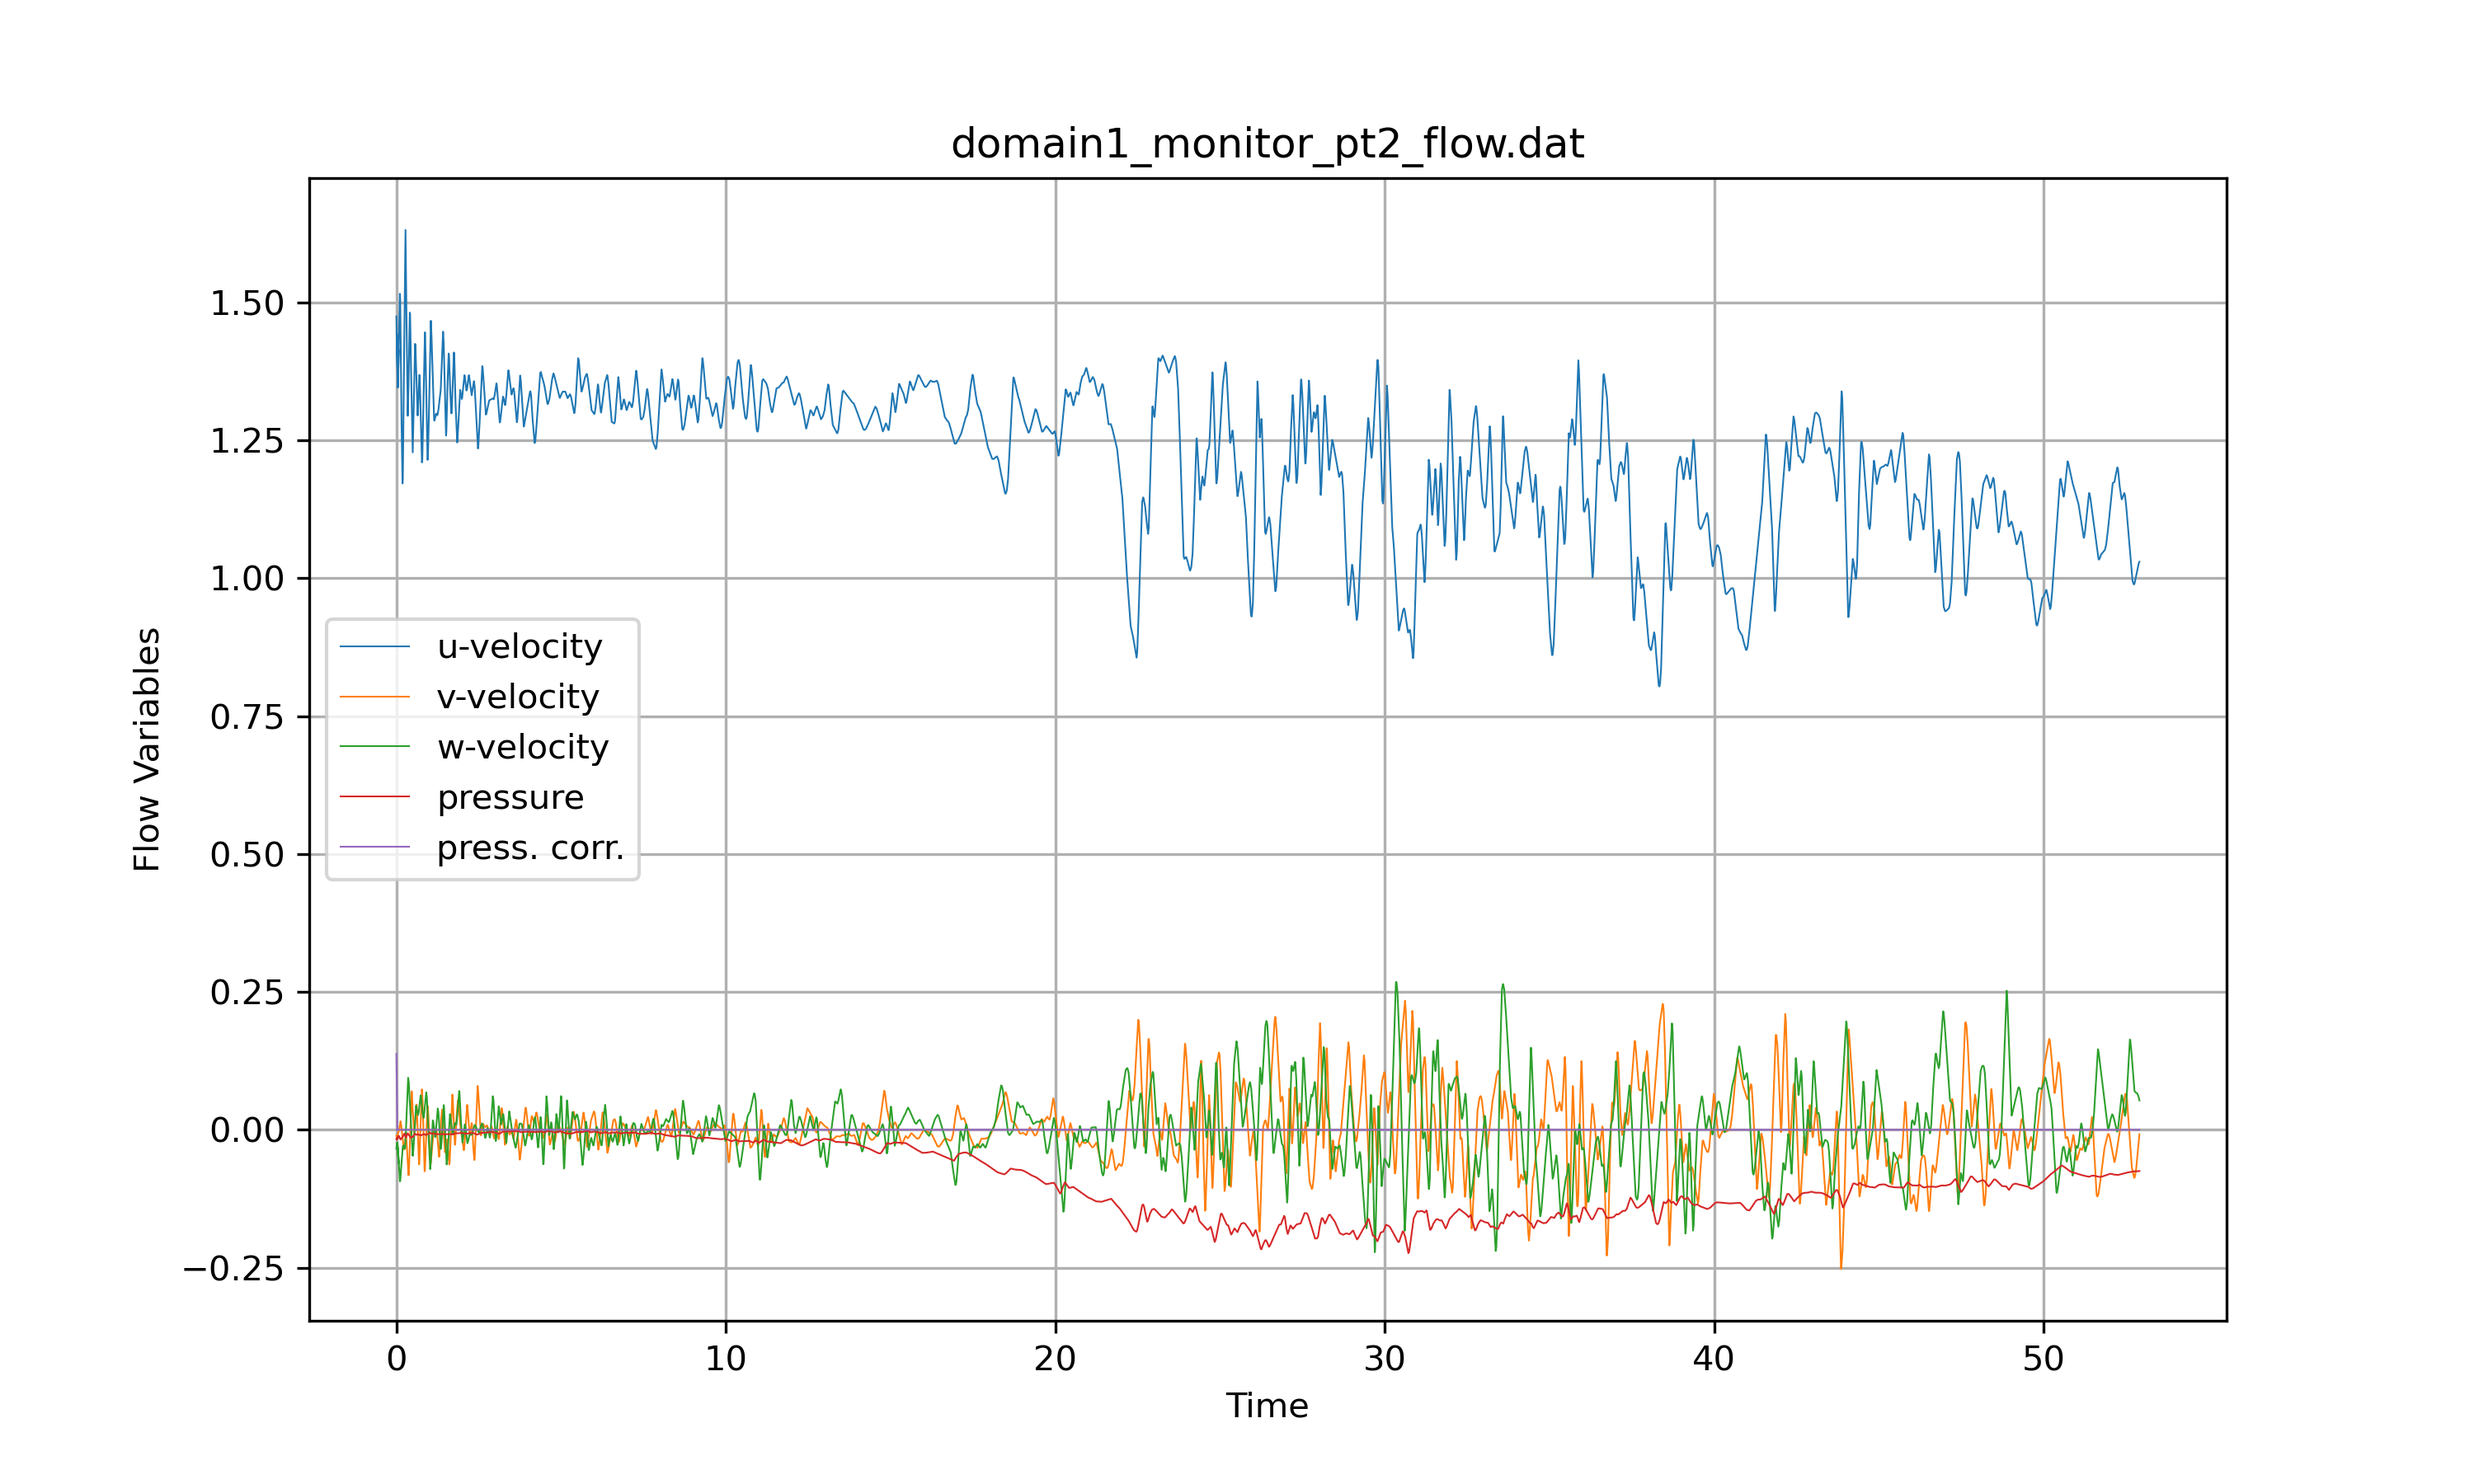
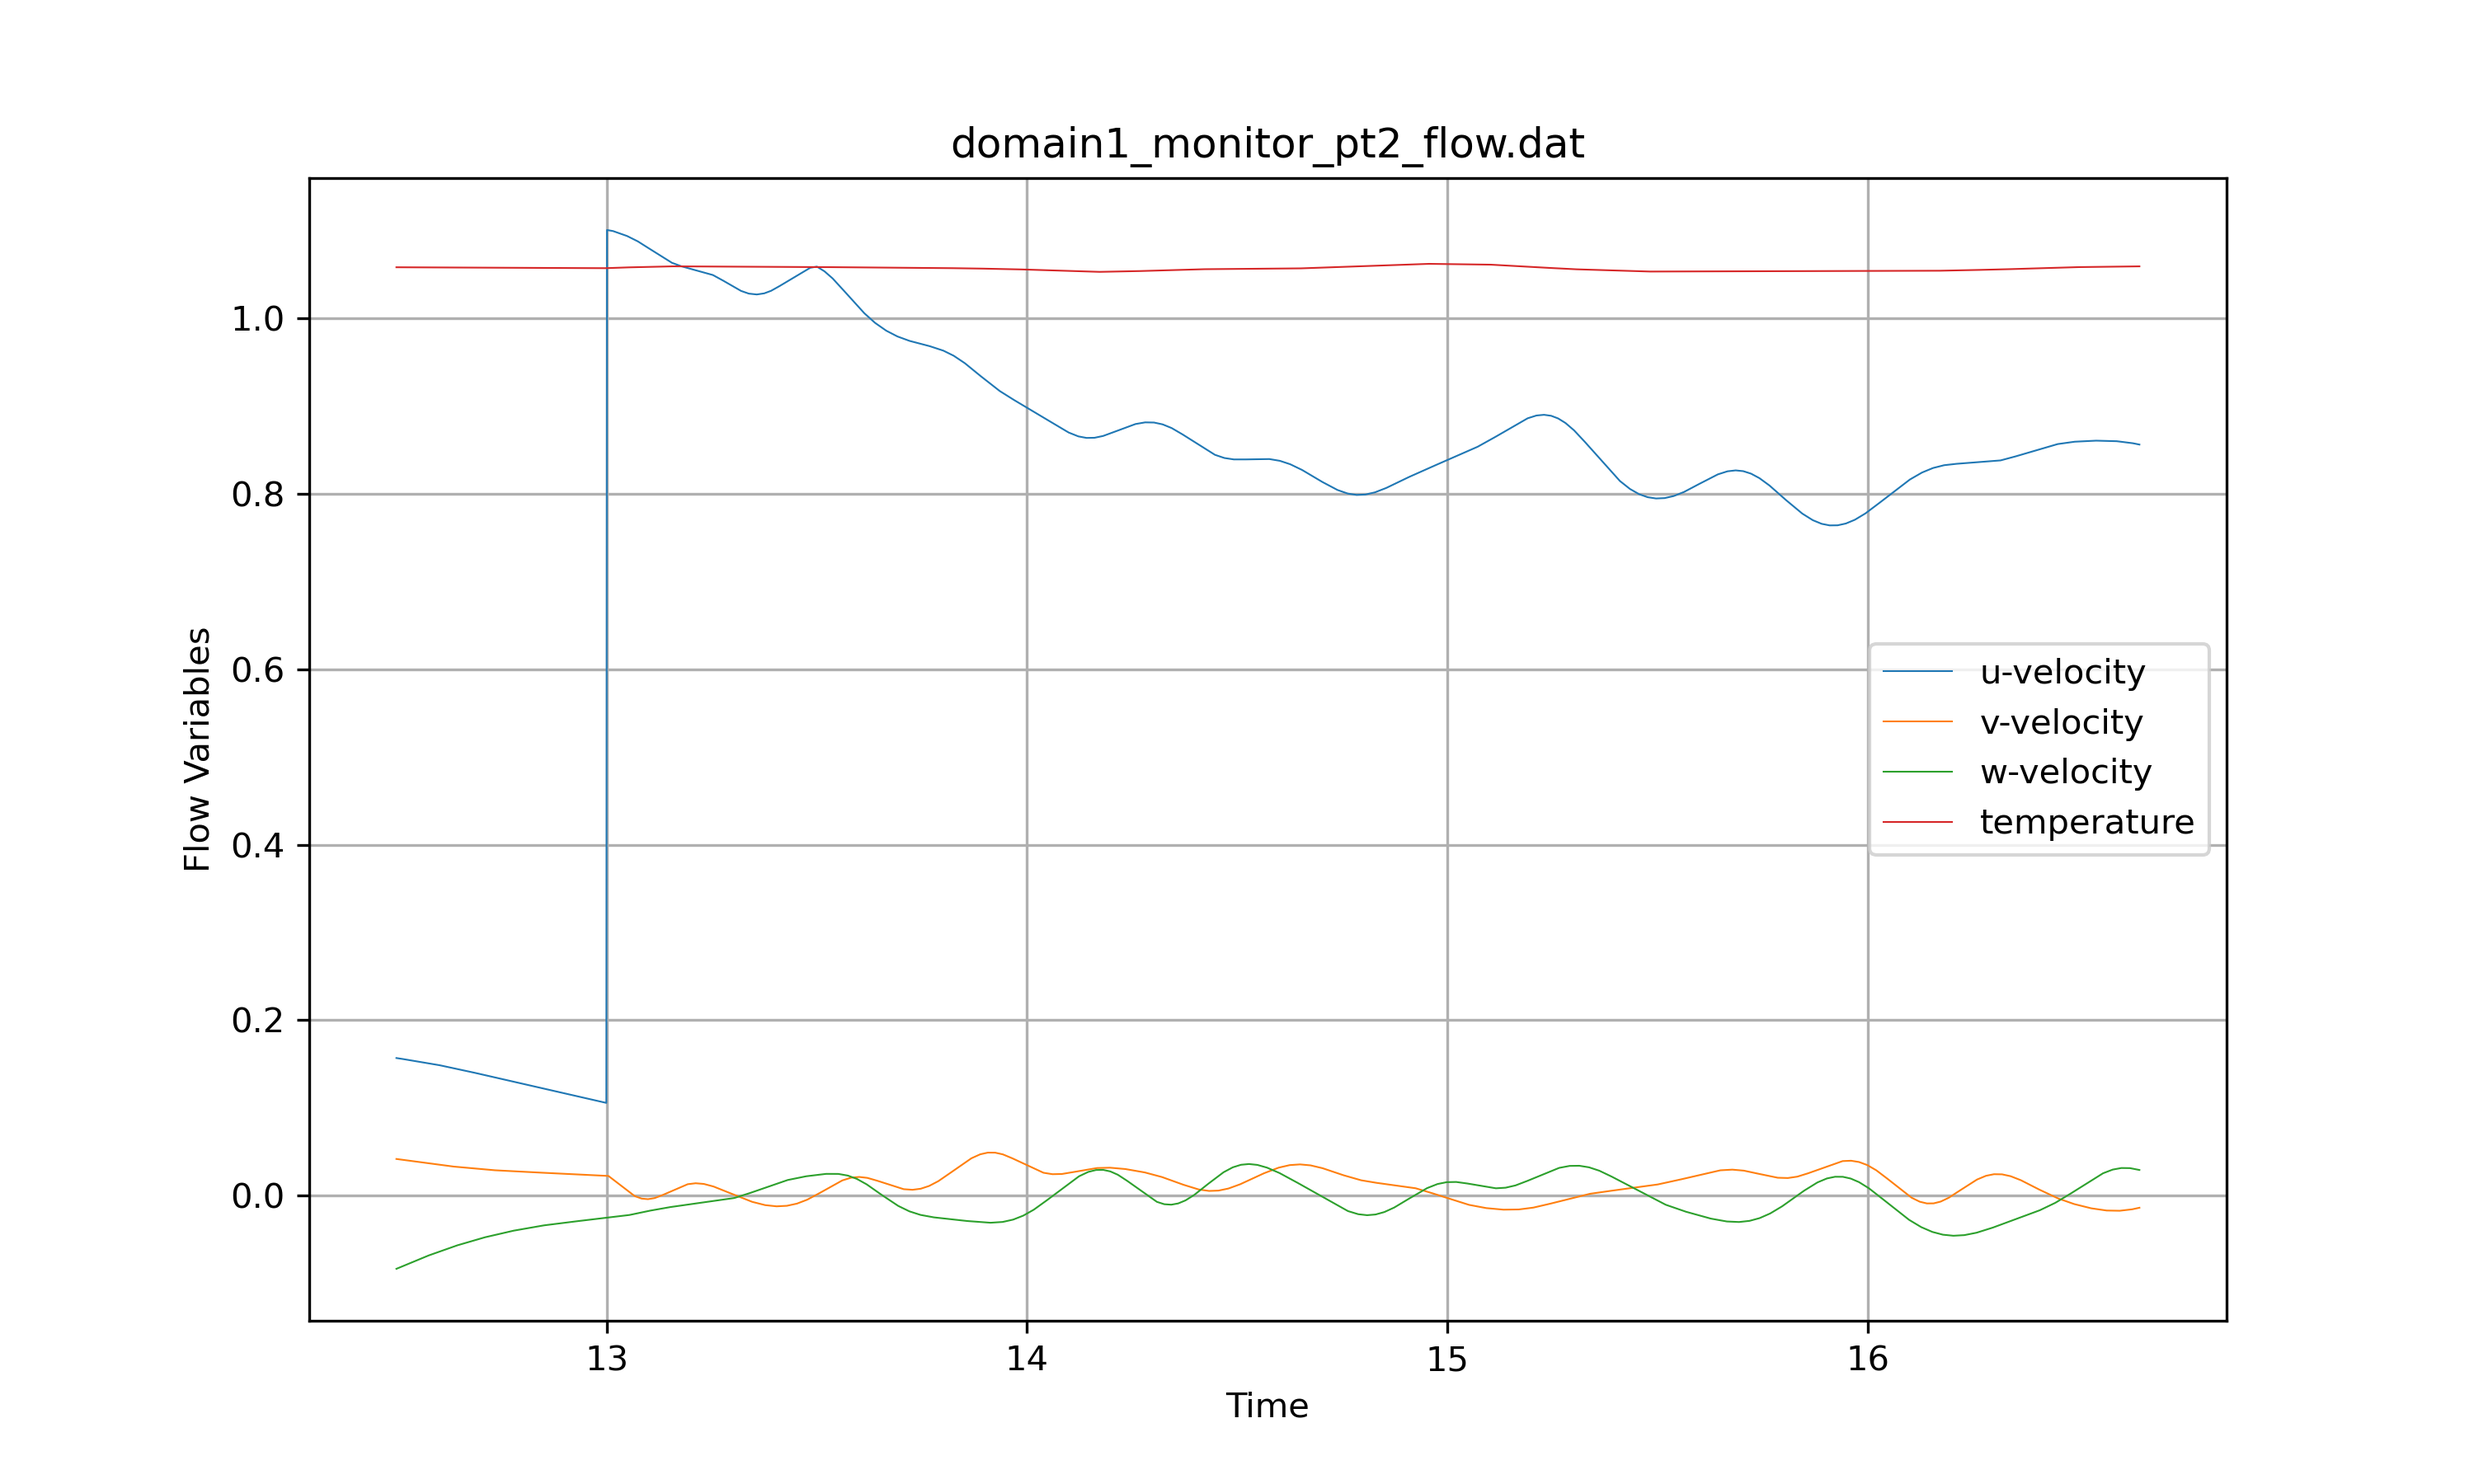
Updated README, added setup file, conda env config and requirements.txt

diff --git a/setup.py b/setup.py
@@ -1,0 +1,56 @@
+"""Setup script for CHAPSim2 Python Toolkit."""
+
+from setuptools import setup, find_packages
+
+# Read the README file for long description
+with open("README.md", "r", encoding="utf-8") as fh:
+    long_description = fh.read()
+
+setup(
+    name="chapsim2-toolkit",
+    version="0.1.0",
+    author="Alex",
+    description="A Python post-processing toolkit for CHAPSim2 DNS solver",
+    long_description=long_description,
+    long_description_content_type="text/markdown",
+    url="https://github.com/yourusername/CHAPSim2_python_toolkit",  # Update with your repo URL
+    packages=find_packages(),
+    classifiers=[
+        "Development Status :: 3 - Alpha",
+        "Intended Audience :: Science/Research",
+        "Topic :: Scientific/Engineering :: Physics",
+        "Topic :: Scientific/Engineering :: Visualization",
+        "License :: OSI Approved :: MIT License",
+        "Programming Language :: Python :: 3",
+        "Programming Language :: Python :: 3.8",
+        "Programming Language :: Python :: 3.9",
+        "Programming Language :: Python :: 3.10",
+        "Programming Language :: Python :: 3.11",
+    ],
+    python_requires=">=3.8",
+    install_requires=[
+        "numpy>=1.20.0",
+        "matplotlib>=3.3.0",
+        "pandas>=1.2.0",
+        "vtk>=9.0.0",
+        "pyvista>=0.32.0",
+    ],
+    extras_require={
+        "dev": [
+            "pytest>=6.0",
+            "pytest-cov>=2.0",
+            "black>=21.0",
+            "flake8>=3.9",
+        ],
+    },
+    entry_points={
+        "console_scripts": [
+            "chapsim2-turbstats=turb_stats:main",
+        ],
+    },
+    include_package_data=True,
+    package_data={
+        "": ["Reference_Data/**/*"],
+    },
+    zip_safe=False,
+)

diff --git a/monitor_points.py b/monitor_points.py
@@ -12,7 +12,7 @@ plt.rcParams['path.simplify_threshold'] = 1.0
 #path = '/home/alex/sim_results/mhd_heated_channel_validation/Ha_16/3_monitor/'
 #path = '/home/alex/sim_results/mesh_con_Ha_30/30_pts/3_monitor/3_monitor/'
 #path = '/home/alex/sim_results/mhd_channel_validation/CPG/Ha_4/3_monitor/'
-path = '/home/alex/sim_results/elev_modes/isothermal_base_cases/3_monitor/'
+path = '/home/alex/sim_results/elev_modes/spat_dev_mgc/buoy_opp/3_monitor/'
 pt_files = ['domain1_monitor_pt1_flow.dat','domain1_monitor_pt3_flow.dat','domain1_monitor_pt5_flow.dat',
          'domain1_monitor_pt2_flow.dat','domain1_monitor_pt4_flow.dat']
 blk_files = ['domain1_monitor_bulk_history.log', 'domain1_monitor_change_history.log']
@@ -23,7 +23,7 @@ save_to_path = True
 
 clean_file = False
 sample_factor = 10  # Plot every nth point to reduce data density
-thermo_on = False
+thermo_on = True
 
 # ====================================================================================================================================================
  
@@ -53,8 +53,8 @@ if plt_pts:
         plt.plot(time, u, label='u-velocity', linewidth=0.5)
         plt.plot(time, v, label='v-velocity', linewidth=0.5)
         plt.plot(time, w, label='w-velocity', linewidth=0.5)
-        plt.plot(time, p, label='pressure', linewidth=0.5)
-        plt.plot(time, phi, label='press. corr.', linewidth=0.5)
+        #plt.plot(time, p, label='pressure', linewidth=0.5)
+        #plt.plot(time, phi, label='press. corr.', linewidth=0.5)
         if thermo_on:
             plt.plot(time, T, label='temperature', linewidth=0.5)
         plt.xlabel('Time')

diff --git a/config.py b/config.py
@@ -1,3 +1,5 @@
+# Configuration file for turb_stats script ============================================================================================================
+
 # Define input cases ==================================================================================================================================
 
 # format: folder_path/case/1_data/quantity_timestep.dat
@@ -7,7 +9,7 @@ cases = ['Gr10^7'] # case names must match folder names exactly
 timesteps = ['130000']
 quantities = ['u1', 'u2', 'u3', 'uu11', 'uu12', 'uu22','uu33','pr','T'] # for time & space averaged files
 forcing = 'CMF' # 'CMF' or 'CPG'
-Re = [5000] # indexing matches 'cases' if different Re used. Use reference value for CPG.
+Re = [5000] # indexing matches 'cases' if different Re used for different cases. Use bulk reference value for CPG.
 ref_temp = [670] # Kelvin
 
 # Output ==============================================================================================================================================

diff --git a/README.md b/README.md
@@ -1,2 +1,22 @@
 # CHAPSim2_python_toolkit
 A python post-processing and toolkit program based on NumPy, Matplotlib and PyVista for DNS solver CHAPSim2.
+
+Install:
+
+Dependencies are given in requirements.txt.
+pip: Navigate to base directory and run 'pip install .'
+conda: Navigate to base directory and run 'conda env create -f environment.yml' to create a conva environment for the program then 'conda activate chapsim2-toolkit' to use the environment.
+
+Scripts:
+
+turb_stats.py: Main post-processing script to provide velocity, temperature & Reynolds stress profiles from CHAPSim2 text file output. Input parameters, cases for comparison etc. on config.py file. Plots saved in turb_stats_plots/ and to file path.
+
+monitor_points.py: Plotting for bulk and point monitors. Input at the top of the script. Plots saved under monitor_point_plots/ and file path.
+
+thermo_tools.py: Property functions for liquid lithium, functionality to output NIST format data file, convert a given Grashof number to constant wall temperature difference (channel flow), calculate Prandtl and Fourier numbers.
+
+visualise.py: 3D domain visualisation using PyVista. Under development, not currently functional.
+
+Reference Data:
+
+Isothermal channel (MKM180), square duct (KTH) reference data is provided as well as isothermal and heated MHD reference data (NK). All reference data is openly accessible from published sources. Copyright for reference datasets remains with the original authors/publishers. See individual data files for citations.
